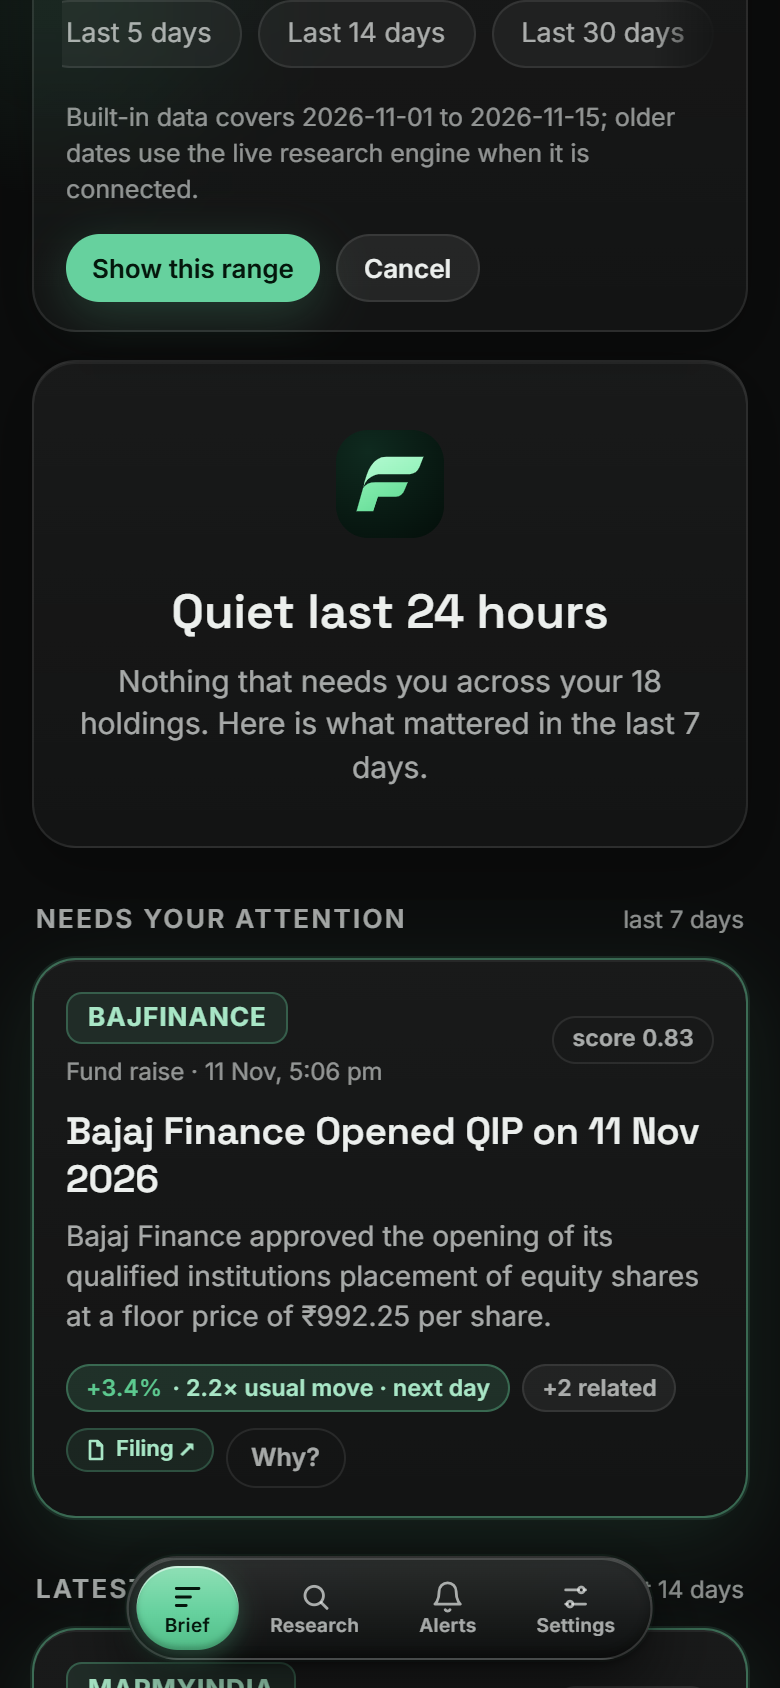
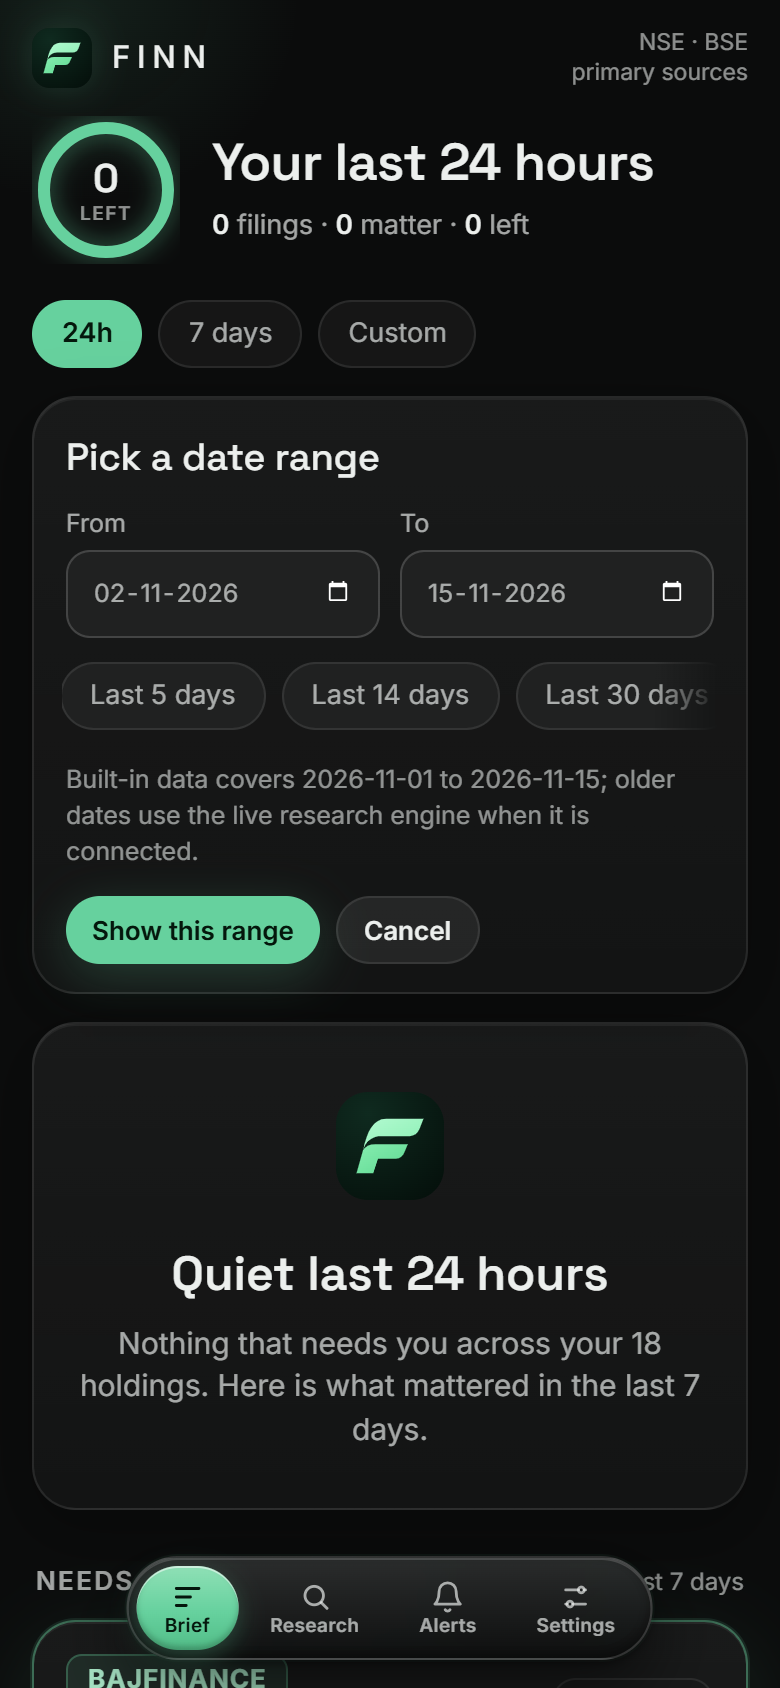
Bank numbers for lenders: NII, margin on assets, NPA ratios when reported, deposits
From the statement tables only: NII = interest earned - interest paid, an
approximate NIM (annualised NII / total assets, labelled as such), gross and
net NPA where the tables have them, deposits and growth; 'Total income'
instead of 'Revenue' for lenders. CASA and the credit-deposit ratio are not
in these tables, and the page says so instead of guessing.

diff --git a/frontend/src/screens/Research.tsx b/frontend/src/screens/Research.tsx
@@ -257,6 +257,7 @@ function Company({ d, onBack }: { d: Json; onBack: () => void }) {
       {S.dodged_questions && <Dodged calls={S.dodged_questions} />}
       {S.narrative_vs_numbers?.length > 0 && <Story items={S.narrative_vs_numbers} />}
       {S.snapshot && <Snapshot s={S.snapshot} />}
+      {S.bank && <Bank b={S.bank} yearGrowth={S.balance_sheet?.deposit_growth_pct} />}
       {S.trajectory && <Trajectory t={S.trajectory} lender={!!S.snapshot?.lender} />}
       {S.balance_sheet && <BalanceSheet b={S.balance_sheet} />}
       {S.cash_quality && <Cash c={S.cash_quality} />}
@@ -484,11 +485,29 @@ function Snapshot({ s }: { s: Json }) {
       <div className="glass card kv">
         <span className="k">Market cap</span><span className="v">{fmtCr(s.market_cap_cr)}</span>
         <span className="k">P/E</span><span className="v">{s.pe ?? "–"}</span>
-        {l.revenue != null && <><span className="k">Quarter revenue</span><span className="v">{fmtCr(l.revenue)}</span></>}
+        {l.revenue != null && <><span className="k">Quarter {s.lender ? "total income" : "revenue"}</span><span className="v">{fmtCr(l.revenue)}</span></>}
         {l.pat != null && <><span className="k">Quarter profit</span><span className="v">{fmtCr(l.pat)}</span></>}
         {l.gross_npa_pct != null && <><span className="k">Gross / net NPA</span><span className="v">{l.gross_npa_pct}% / {l.net_npa_pct}%</span></>}
         {s.roe_pct != null && <><span className="k">ROE</span><span className="v">{s.roe_pct}%</span></>}
         {s.roce_pct != null && !s.lender && <><span className="k">ROCE</span><span className="v">{s.roce_pct}%</span></>}
+      </div>
+    </>
+  );
+}
+
+function Bank({ b, yearGrowth }: { b: Json; yearGrowth?: number | null }) {
+  return (
+    <>
+      <Title meta={`quarter to ${fmtDay(b.quarter_end)}`}>Bank numbers</Title>
+      <div className="glass card">
+        <div className="kv">
+          {b.nii != null && <><span className="k">Net interest income (NII)</span><span className="v">{fmtCr(b.nii)}{b.nii_yoy_pct != null ? <span className={signClass(b.nii_yoy_pct)}> {fmtPct(b.nii_yoy_pct)} YoY</span> : null}</span></>}
+          {b.nim_approx_pct != null && <><span className="k">Margin on assets (≈ NIM)</span><span className="v">{b.nim_approx_pct}%</span></>}
+          {b.gross_npa_pct != null && <><span className="k">Gross / net NPA</span><span className="v">{b.gross_npa_pct}% / {b.net_npa_pct}%</span></>}
+          {b.deposits != null && <><span className="k">Deposits</span><span className="v">{fmtCr(b.deposits)}{b.deposit_growth_pct != null ? <span className={signClass(b.deposit_growth_pct)}> {fmtPct(b.deposit_growth_pct)} YoY</span>
+            : yearGrowth != null ? <span className={signClass(yearGrowth)}> {fmtPct(yearGrowth)} last year</span> : null}</span></>}
+        </div>
+        <p className="faint small" style={{ marginBottom: 0 }}>{b.note} Not in the statement tables: {(b.missing || []).join(", ")}.</p>
       </div>
     </>
   );

diff --git a/backend/finn/pull/tables.py b/backend/finn/pull/tables.py
@@ -140,9 +140,44 @@ def cash_quality(f: dict) -> dict:
     return out
 
 
+def bank(f: dict) -> dict | None:
+    """Lender numbers from the statement tables: net interest income (interest earned - interest paid),
+    an approximate margin on assets, bad-loan ratios when reported, and deposits. CASA and the
+    credit-deposit ratio are not in these tables, so they are listed as missing rather than guessed."""
+    if not f.get("lender"):
+        return None
+    q = f["quarterly"]
+    ends = sorted(k for k in q if k[:4].isdigit())
+    if not ends:
+        return None
+    nii = lambda k: (q[k].get("revenue") - q[k].get("interest")) if q.get(k) and q[k].get("revenue") is not None \
+        and q[k].get("interest") is not None else None
+    cur = ends[-1]
+    ya = cur.replace(cur[:4], str(int(cur[:4]) - 1), 1)
+    n, n0 = nii(cur), nii(ya)
+    bs = f["balance_sheet"]
+    b_end = sorted(k for k in bs if k[:4].isdigit())
+    last = bs[b_end[-1]] if b_end else {}
+    prev = bs.get(f"{int(b_end[-1][:4]) - 1}{b_end[-1][4:]}") if b_end else None
+    dep, dep0 = last.get("deposits"), (prev or {}).get("deposits")
+    out = {
+        "quarter_end": cur,
+        "nii": n, "nii_yoy_pct": fundamentals.growth_pct(n, n0)[0] if n is not None and n0 else None,
+        "nim_approx_pct": round(n * 4 / last["total_assets"] * 100, 2) if n and last.get("total_assets") else None,
+        "gross_npa_pct": q[cur].get("gross_npa_pct"), "net_npa_pct": q[cur].get("net_npa_pct"),
+        "deposits": dep, "deposit_growth_pct": fundamentals.growth_pct(dep, dep0)[0] if dep and dep0 else None,
+        "deposits_as_of": b_end[-1] if b_end else None,
+        "missing": ["CASA ratio", "credit-deposit ratio"] + ([] if q[cur].get("gross_npa_pct") is not None
+                                                             else ["NPA ratios (not in the consolidated tables)"]),
+        "note": "NII = interest earned - interest paid (quarter). Margin on assets = annualised NII / total assets: "
+                "an approximation of NIM, which banks compute on average interest-earning assets.",
+    }
+    return out
+
+
 def build(ticker: str) -> dict:
     fd = fundamentals.get_fundamentals(ticker)
     f = fd.data
     return {"instrument": f["instrument"], "name": f["name"], "data_as_of": fd.as_of, "stale": fd.stale,
             "snapshot": snapshot(f), "trajectory": trajectory(f), "balance_sheet": balance_sheet(f),
-            "cash_quality": cash_quality(f)}
+            "cash_quality": cash_quality(f), "bank": bank(f)}

diff --git a/backend/finn/pull/retake.py b/backend/finn/pull/retake.py
@@ -6,7 +6,20 @@ import json
 from pathlib import Path
 
 from ..store import store
-from . import narrative
+from .. import fundamentals, symbols
+from . import narrative, tables
+
+
+def _bank(r: dict) -> None:
+    if not (r["sections"].get("snapshot") or {}).get("lender"):
+        return
+    try:
+        key = symbols.resolve(r["ticker"]).screener_key
+        b = tables.bank(fundamentals.get_fundamentals(key).data)
+        if b:
+            r["sections"]["bank"] = b
+    except Exception as e:  # noqa: BLE001
+        print(r["ticker"], "bank numbers skipped:", type(e).__name__)
 
 SNAP = Path(__file__).resolve().parents[3] / "frontend" / "public" / "data" / "research"
 
@@ -17,11 +30,13 @@ def main() -> None:
         hit = store().get("research", k)
         if hit:
             r = hit[0]
+            _bank(r)
             r["sections"]["take"] = narrative.finns_take(r["sections"])
             store().put("research", k, r, "pull engine")
             n += 1
     for f in SNAP.glob("*.json"):
         r = json.loads(f.read_text(encoding="utf-8"))
+        _bank(r)
         r["sections"]["take"] = narrative.finns_take(r["sections"])
         f.write_text(json.dumps(r, ensure_ascii=False, separators=(",", ":")), encoding="utf-8")
         n += 1

diff --git a/backend/tests/test_pull.py b/backend/tests/test_pull.py
@@ -338,3 +338,16 @@ def test_queue_position_counts_jobs_ahead():
     })
     assert engine.status("c")["ahead"] == 2 and engine.status("b")["ahead"] == 1 and engine.status("a")["ahead"] == 0
     engine._jobs.clear()
+
+
+
+def test_bank_numbers_from_statement_tables():
+    from finn.pull.tables import bank
+    f = {"lender": True,
+         "quarterly": {"2025-09-30": {"revenue": 87000.0, "interest": 47000.0},
+                       "2026-09-30": {"revenue": 95132.0, "interest": 50667.0, "gross_npa_pct": None}},
+         "balance_sheet": {"2025-09-30": {"deposits": 3100000.0}, "2026-09-30": {"deposits": 3324146.0, "total_assets": 5165842.0}}}
+    b = bank(f)
+    assert b["nii"] == 44465.0 and b["nii_yoy_pct"] == 11.2 and b["nim_approx_pct"] == 3.44
+    assert b["deposit_growth_pct"] == 7.2 and "CASA ratio" in b["missing"]
+    assert bank({"lender": False}) is None

diff --git a/backend/finn/pull/engine.py b/backend/finn/pull/engine.py
@@ -107,6 +107,8 @@ def research(ticker: str, *, refresh: bool = False, n_transcripts: int = 5,
     tb = tables.build(inst.screener_key)
     out["name"] = tb["name"]
     out["sections"].update({k: tb[k] for k in ("snapshot", "trajectory", "balance_sheet", "cash_quality")})
+    if tb.get("bank"):
+        out["sections"]["bank"] = tb["bank"]
     out["data_as_of"] = tb["data_as_of"]
     # Cache key: the newest source document date.
     cands = fundamentals.transcript_candidates(inst.screener_key)
